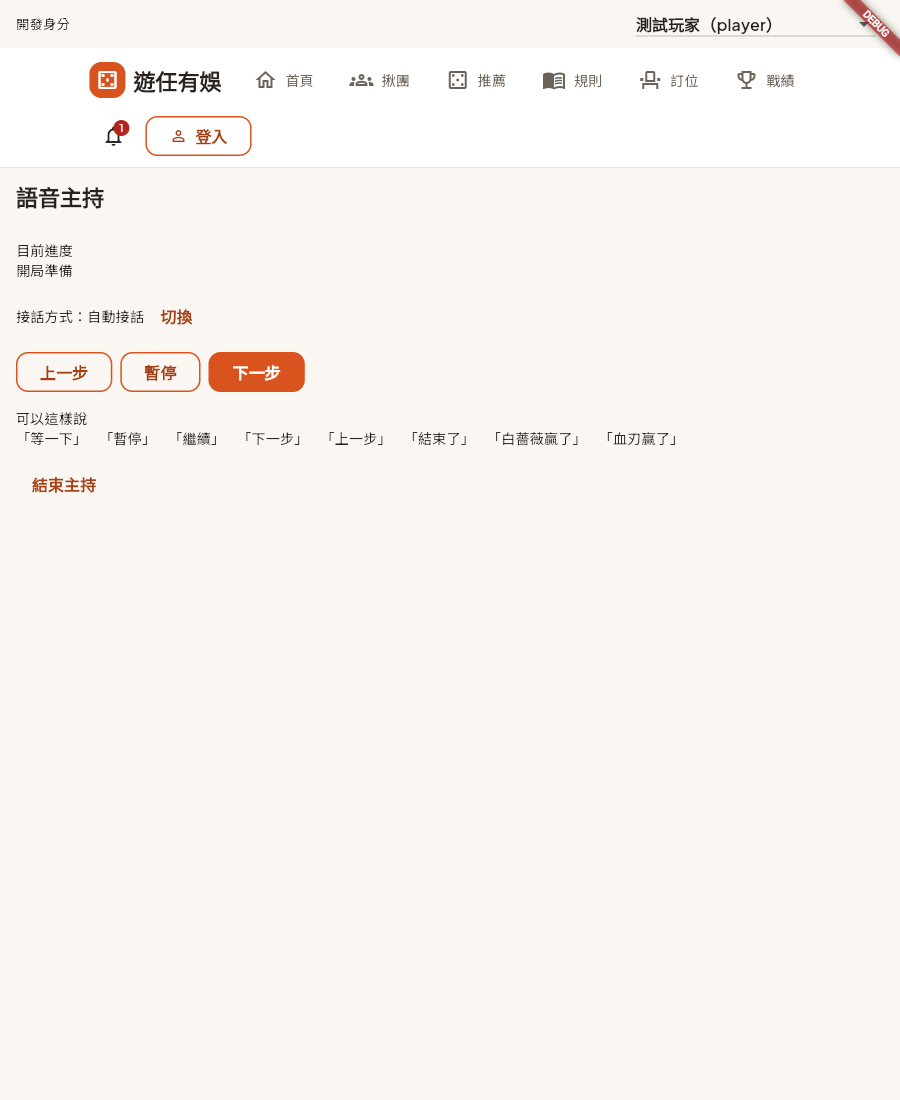
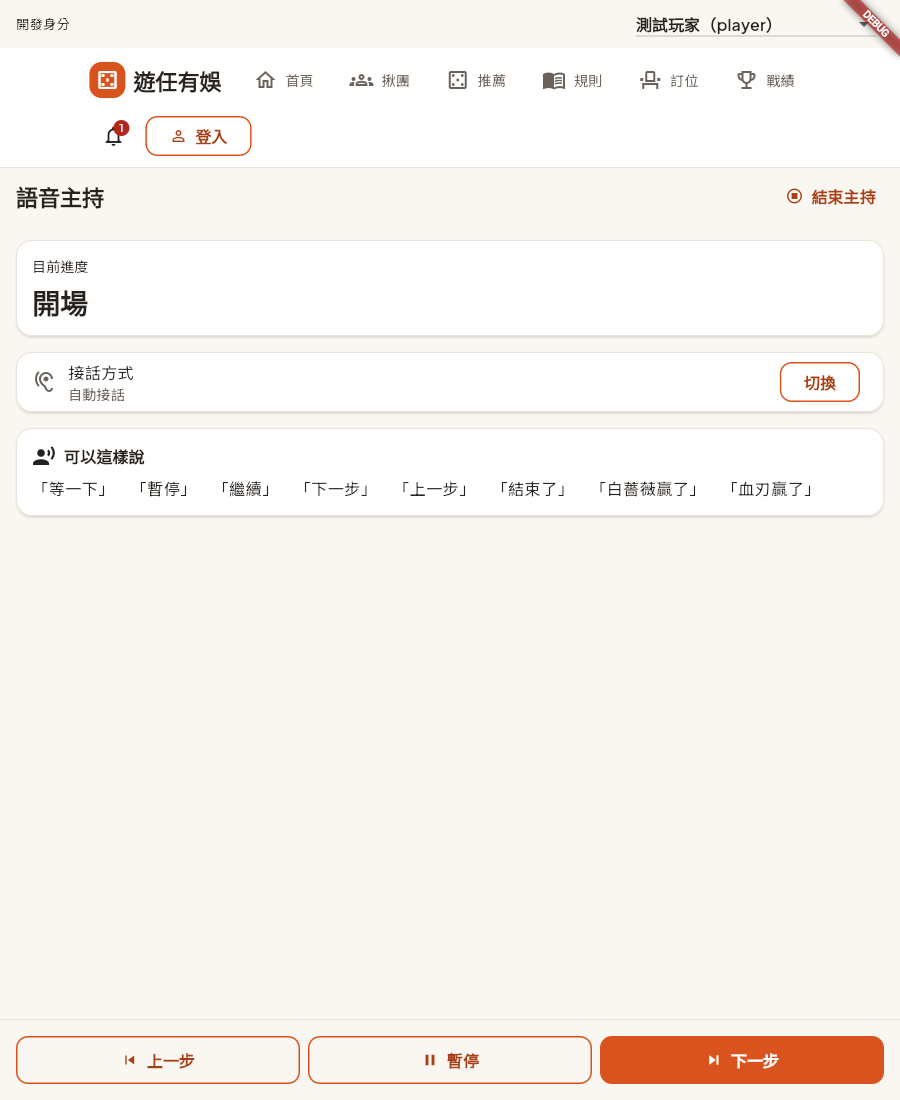
docs(host): 交接說明換上新排版的參考畫面截圖，加一張筆電兩欄
1. host(修改): 第 4 節說明新排版（手機流程鍵固定在底部、筆電兩欄、
   「結束主持」在標題列、提醒分三種），截圖加上編號與寬度說明
2. 01-setup、02-resume、03-hosting-before-first-turn、04-hosting-turn、
   05-paused、06-push-to-talk、07-ended(修改): 換成新排版的截圖（900 寬）
3. 08-hosting-laptop(新增): 筆電 1440 寬的主持中，左欄進度、右欄按鍵

diff --git a/docs/handoff/host.md b/docs/handoff/host.md
@@ -76,19 +76,29 @@
 
 ## 4. 參考畫面截圖
 
-2026-11-22 用筆電的瀏覽器接真的後端與真的語音模型截的。上方的「開發身分」與導覽列是 App 的外框，不是這一頁的內容。
+2026-11-22 用筆電的瀏覽器接真的後端與真的語音模型截的。上方的「開發身分」與導覽列是 App 的外框，不是這一頁的內容。參考畫面只用 Flutter 預設元件，顏色與字型是 App 預設主題，正式的樣子由永傑決定；可以參考的是分區與按鍵擺放：
 
-| 開主持前 | 有保留的主持 |
+- 主持中，按鍵擺在提醒與進度改變時都不會被推動的位置，避免玩家連按時按空。手機與平板（寬度未滿 1024）的三顆流程鍵固定在畫面底部，按住說話鍵在流程鍵上面；筆電（1024 以上）分左右兩欄，左欄提醒、進度、正在查規則，右欄接話方式、流程鍵、可以這樣說。
+- 「結束主持」放在標題列右邊，離流程鍵最遠，按「下一步」時不會誤按。
+- 提醒分三種：要玩家點一下的是大按鈕（點一下繼續、點一下開啟聲音）；擋住主持的是橫幅（主持暫停中與各種錯誤）；只是告知的是一行（請關掉自動鎖定、重新連線中）。
+
+以下 1 到 7 是 900 寬（單欄），8 是 1440 寬（兩欄）。
+
+| 1 開主持前 | 2 有保留的主持 |
 |---|---|
 | ![開主持前](images/host/01-setup.png) | ![接著主持與重新開始](images/host/02-resume.png) |
 
-| 主持中：開場到夜晚 | 主持中：回合內 |
+| 3 主持中：開場到夜晚 | 4 主持中：回合內 |
 |---|---|
-| ![開局準備](images/host/03-hosting-before-first-turn.png) | ![第 1 回合階段 2](images/host/04-hosting-turn.png) |
+| ![開場](images/host/03-hosting-before-first-turn.png) | ![第 2 回合決定出牌](images/host/04-hosting-turn.png) |
 
-| 主持暫停中 | 按住說話 | 已結束 |
+| 5 主持暫停中 | 6 按住說話 | 7 已結束 |
 |---|---|---|
 | ![主持暫停中](images/host/05-paused.png) | ![按住說話](images/host/06-push-to-talk.png) | ![已結束](images/host/07-ended.png) |
+
+| 8 筆電：主持中（兩欄） |
+|---|
+| ![筆電主持中](images/host/08-hosting-laptop.png) |
 
 ## 5. 給永傑的備註
 
